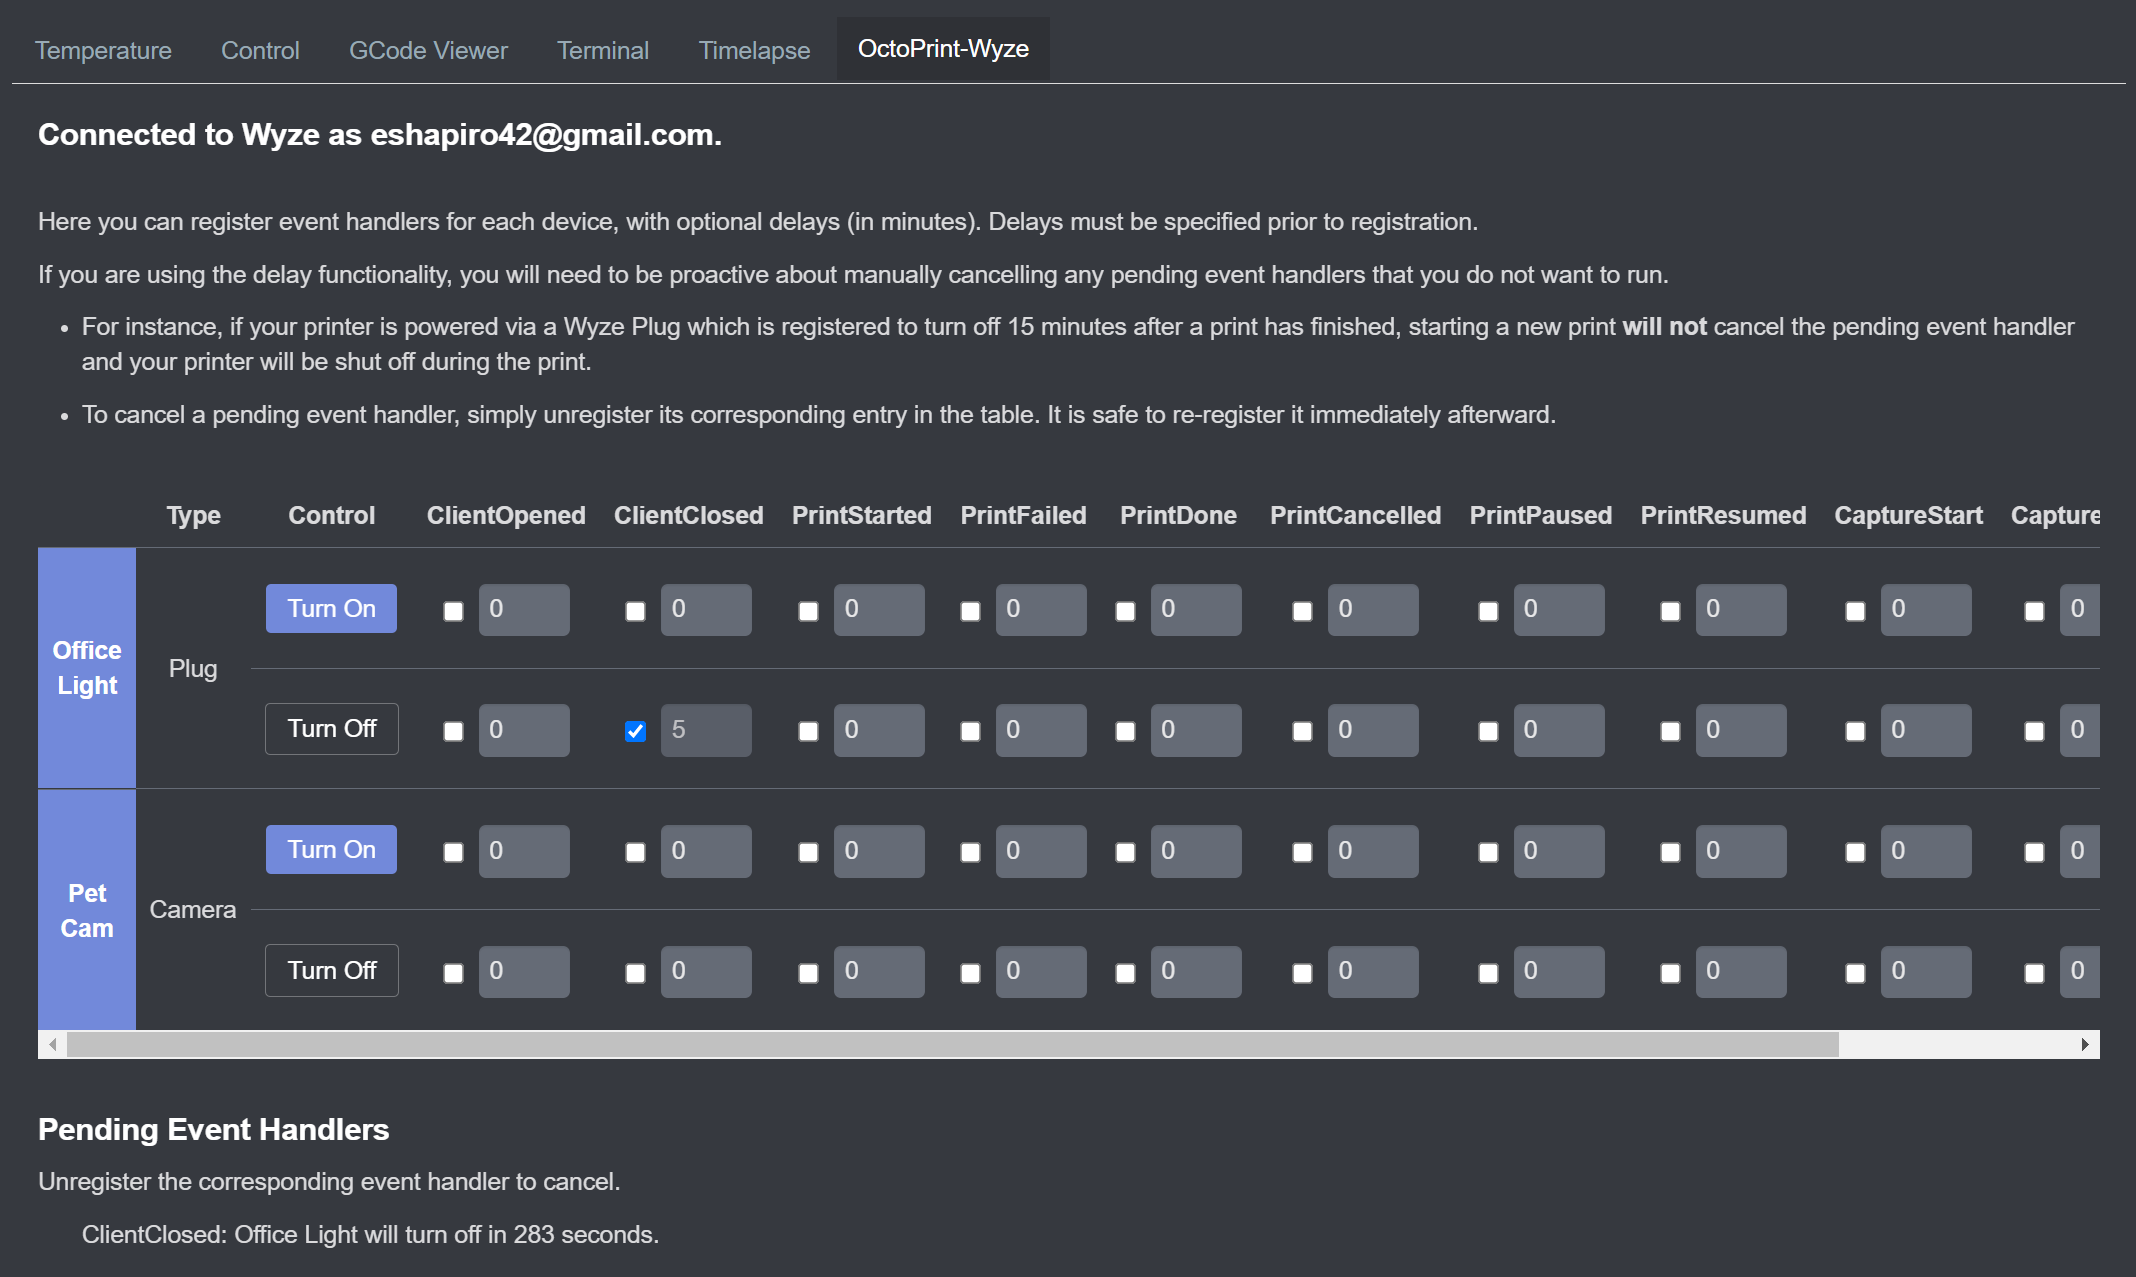
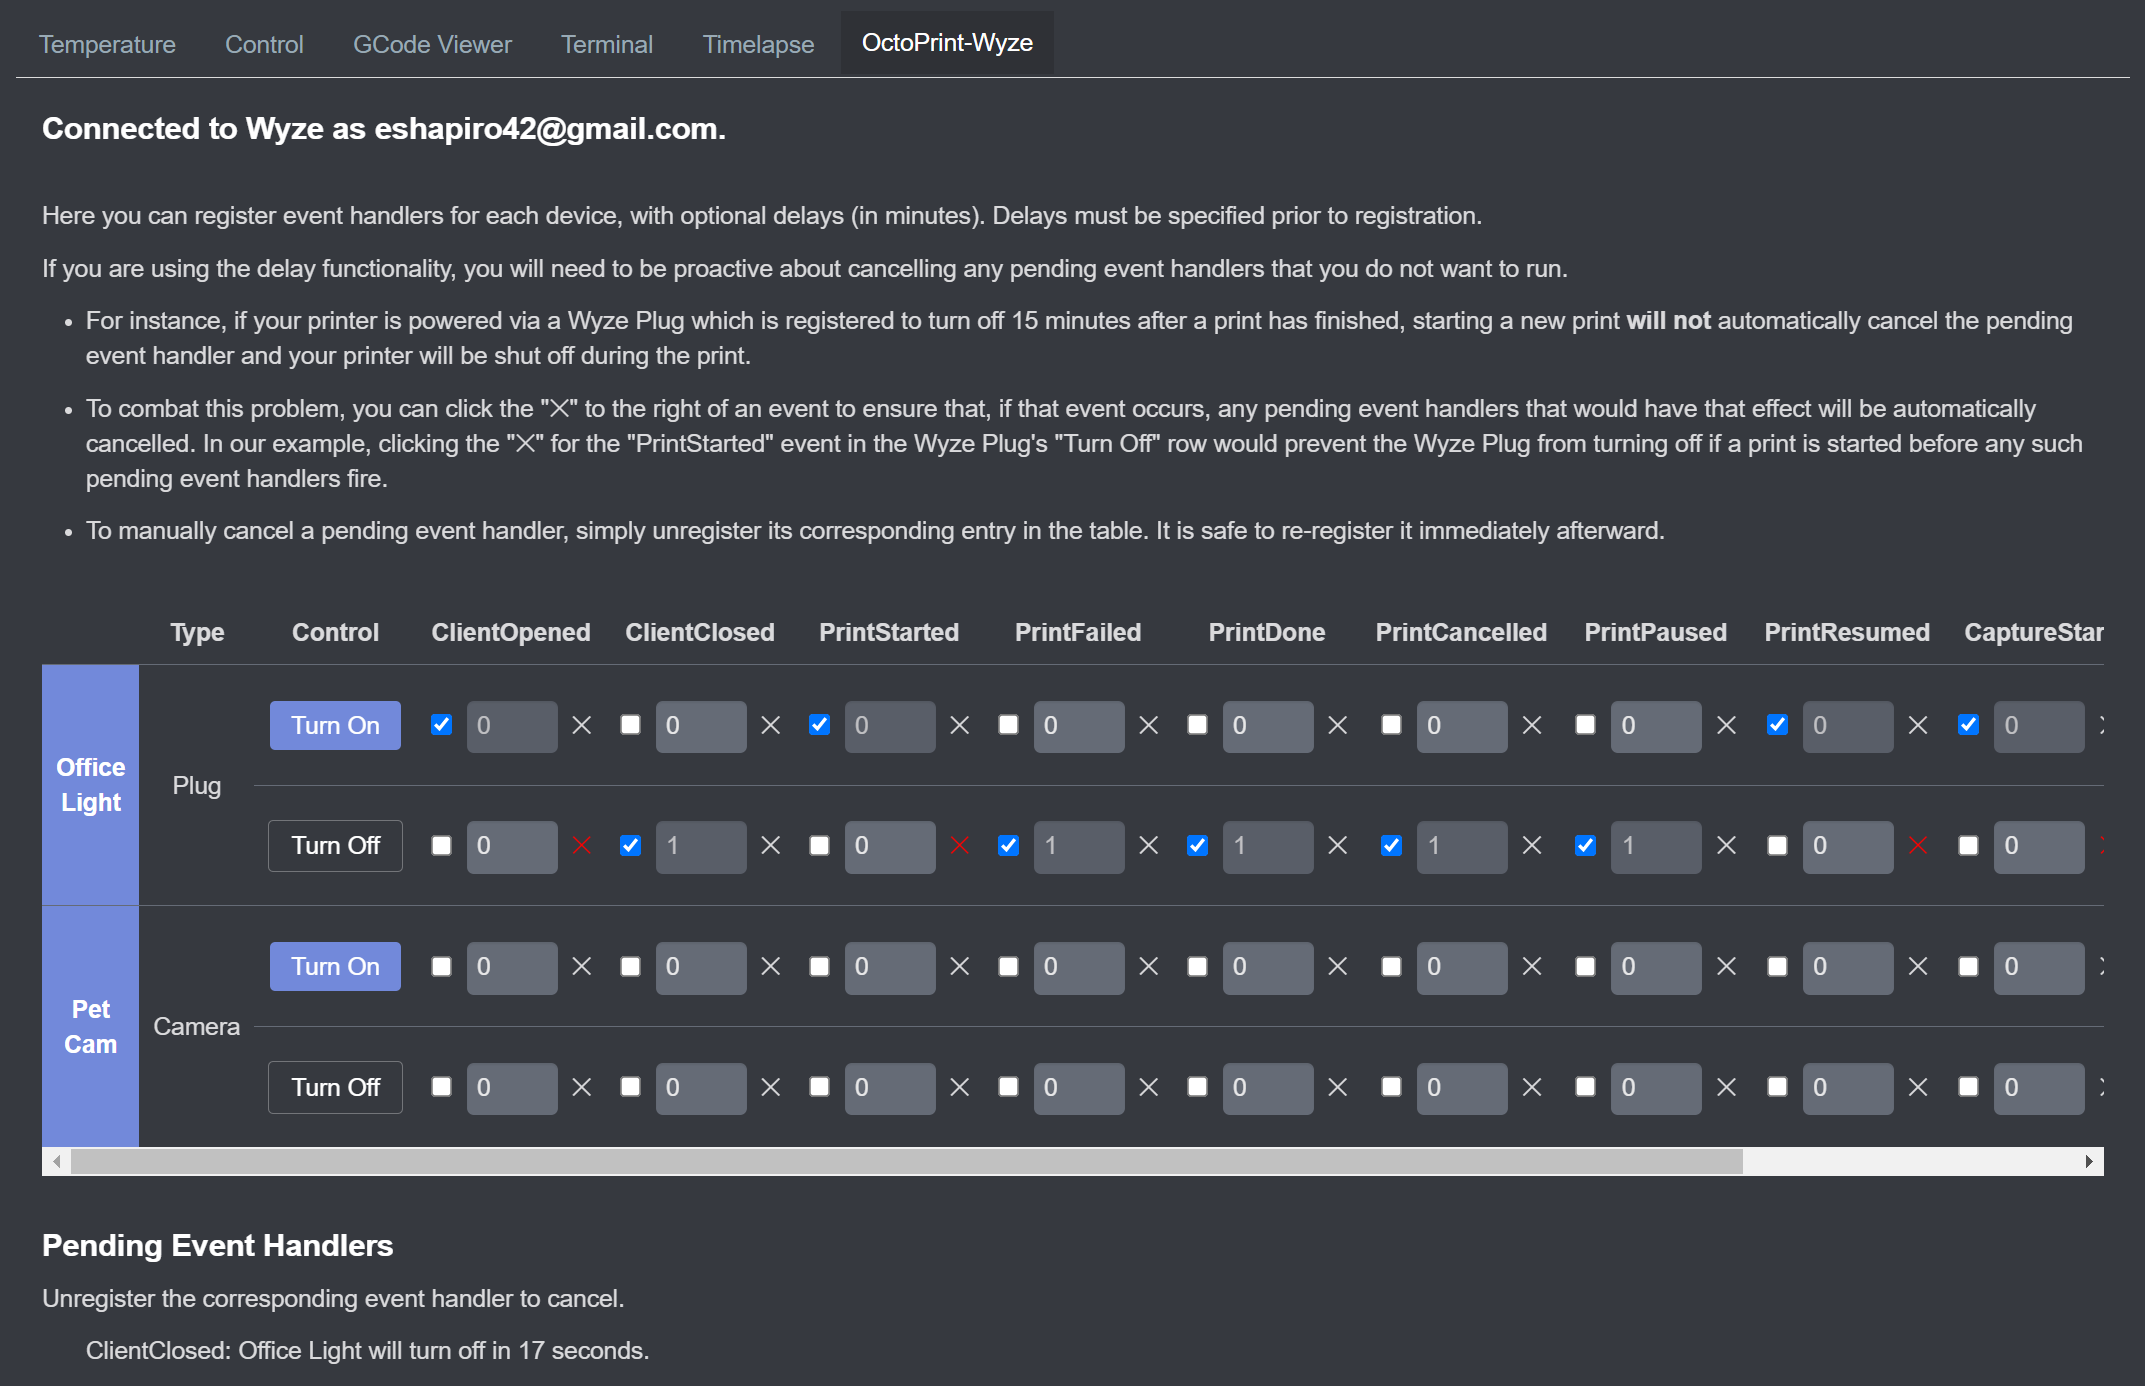
Add automatic cancellation registry
Relates to #7

Changed region(s): [[0.0, 0.1527, 0.9888, 1.0], [0.0, 0.0, 0.4944, 0.1222]]

diff --git a/octoprint_wyze/static/js/wyze.js b/octoprint_wyze/static/js/wyze.js
@@ -87,6 +87,60 @@ $(function() {
                 )
             }
 
+            this_device.addCancel = function(event_index, action_name) {
+                event_name = self.events[event_index];
+                OctoPrint.simpleApiCommand(
+                    "wyze",
+                    "add_cancel",
+                    {
+                        "device_mac": this_device.mac,
+                        "event_name": event_name,
+                        "action_name": action_name,
+                    }
+                )
+            }
+
+            this_device.removeCancel = function(event_index, action_name) {
+                event_name = self.events[event_index];
+                OctoPrint.simpleApiCommand(
+                    "wyze",
+                    "remove_cancel",
+                    {
+                        "device_mac": this_device.mac,
+                        "event_name": event_name,
+                        "action_name": action_name,
+                    }
+                )
+            }
+
+            this_device.turnOnCancelClicked = function(data, js_event) {
+                var context = ko.contextFor(js_event.target);
+                var event_index = context.$index();
+                this_device.turn_on_registrations[event_index].cancel(!this_device.turn_on_registrations[event_index].cancel());
+                var checked = this_device.turn_on_registrations[event_index].cancel();
+                if (checked) {
+                    this_device.addCancel(event_index, "TurnOn");
+                }
+                else {
+                    this_device.removeCancel(event_index, "TurnOn");
+                }
+                return true;
+            }
+            
+            this_device.turnOffCancelClicked = function(data, js_event) {
+                var context = ko.contextFor(js_event.target);
+                var event_index = context.$index();
+                this_device.turn_off_registrations[event_index].cancel(!this_device.turn_off_registrations[event_index].cancel());
+                var checked = this_device.turn_off_registrations[event_index].cancel();
+                if (checked) {
+                    this_device.addCancel(event_index, "TurnOff");
+                }
+                else {
+                    this_device.removeCancel(event_index, "TurnOff");
+                }
+                return true;
+            }
+
             this_device.turnOnCheckBoxClicked = function(data, js_event) {
                 var context = ko.contextFor(js_event.target);
                 var event_index = context.$index();
@@ -117,16 +171,20 @@ $(function() {
 
             this_device.turn_on_registrations = $.map(data.turn_on_registrations, function(item, event_index) {
                 var registration = {
-                    registered: ko.observable(item[0]),
-                    delay: ko.observable(item[1]),
+                    eventIndex: event_index,
+                    registered: ko.observable(item.registered),
+                    delay: ko.observable(item.delay),
+                    cancel: ko.observable(item.cancel),
                 };
                 return registration;
             });
 
             this_device.turn_off_registrations = $.map(data.turn_off_registrations, function(item, event_index) {
                 var registration = {
-                    registered: ko.observable(item[0]),
-                    delay: ko.observable(item[1]),
+                    eventIndex: event_index,
+                    registered: ko.observable(item.registered),
+                    delay: ko.observable(item.delay),
+                    cancel: ko.observable(item.cancel),
                 };
                 return registration;
             });

diff --git a/octoprint_wyze/static/css/wyze.css b/octoprint_wyze/static/css/wyze.css
@@ -17,10 +17,10 @@
     padding-left: 0px;
     overflow-x: auto;
     display: flex;
-    justify-content: space-around;
+    justify-content: space-between;
     list-style-type: none;
-    align-items: center;
-    justify-content: center;
+    align-items: baseline;
+    gap: 10px;
 }
 
 .wyze-list li:not(:first-child) {
@@ -138,4 +138,21 @@
 
 .themeify.nighttime th {
     border: 0;
+}
+
+.wyze-x{
+    display: inline-block;
+    cursor: pointer; 
+}
+
+.wyze-x[checked] {
+    color: red;
+}
+
+.wyze-x[unchecked] {
+    color: white;
+}
+
+input[type=checkbox] {
+    margin-bottom: 4px;
 }

diff --git a/octoprint_wyze/events.py b/octoprint_wyze/events.py
@@ -1,4 +1,5 @@
 from __future__ import annotations
+from collections import defaultdict
 
 import os
 import sqlite3
@@ -134,7 +135,7 @@ class Action(Thread):
 class EventHandler:
     def __init__(self, data_folder: str):
         self.db_path = os.path.join(data_folder, "wyze-event-handler-v2.db")
-        self.create_table()
+        self.create_tables()
 
     
     @contextmanager
@@ -146,7 +147,7 @@ class EventHandler:
         conn.close()
 
 
-    def create_table(self):
+    def create_tables(self):
         with self.db_conn() as cur:
             cur.execute(
                 """
@@ -166,6 +167,30 @@ class EventHandler:
                         mac_event_action
                     ON
                         registrations
+                    (
+                        device_mac,
+                        event_name,
+                        action_name
+                    )
+                """
+            )
+            cur.execute(
+                """
+                    CREATE TABLE IF NOT EXISTS
+                        cancellations
+                        (
+                            device_mac text,
+                            event_name text,
+                            action_name text
+                        )
+                """
+            )
+            cur.execute(
+                """
+                    CREATE UNIQUE INDEX IF NOT EXISTS
+                        mac_event_action
+                    ON
+                        cancellations
                     (
                         device_mac,
                         event_name,
@@ -208,6 +233,39 @@ class EventHandler:
             )
 
 
+    def add_cancel(self, device_mac: str, event: EventType, action: ActionType):
+        with self.db_conn() as cur:
+            try:
+                cur.execute(
+                    """
+                        INSERT INTO
+                            cancellations
+                        VALUES
+                            (?, ?, ?)
+                    """,
+                    (device_mac, EventType.get_name(event), ActionType.get_name(action))
+                )
+            except sqlite3.IntegrityError:
+                pass
+
+
+    def remove_cancel(self, device_mac: str, event: EventType, action: ActionType):
+        with self.db_conn() as cur:
+            cur.execute(
+                """
+                    DELETE FROM
+                        cancellations
+                    WHERE
+                        device_mac = ?
+                        AND
+                        event_name = ?
+                        AND 
+                        action_name = ?
+                """,
+                (device_mac, EventType.get_name(event), ActionType.get_name(action))
+            )
+
+
     def get_action(self, plugin, device: WyzeDevice, event_name: str) -> Optional[ActionType]:
         with self.db_conn() as cur:
             cur.execute(
@@ -230,10 +288,48 @@ class EventHandler:
                 return Action(plugin, action_type, event_type, device, delay)
             return None
 
+        
+    def process_cancellations(self, plugin, device: WyzeDevice, event_name: str):
+        with self.db_conn() as cur:
+            for _, event_name, action_name in cur.execute(
+                """
+                    SELECT * FROM
+                        cancellations
+                    WHERE
+                        device_mac = ?
+                        AND
+                        event_name = ?
+                """,
+                (device.mac, event_name)
+            ):
+                action_type = ActionType.get_by_name(action_name)
+                matched_actions = []
+                for action in plugin.pending_actions:
+                    if action.device.mac == device.mac and action.action_type == action_type:
+                        matched_actions.append(action)
+                for action in matched_actions:
+                    plugin._logger.info(f"Event {event_name} fired. Cancelling pending action {action}...")
+                    action.cancel()
+            
     
     def get_registrations(self, device_mac: str) -> Tuple[List]:
-        turn_on_registrations = [(False, 0)] * len(EventType)
-        turn_off_registrations = [(False, 0)] * len(EventType)
+        turn_on_registrations = []
+        turn_off_registrations = []
+        for _ in EventType:
+            turn_on_registrations.append(
+                {
+                    "registered": False,
+                    "delay": 0,
+                    "cancel": False
+                }
+            )
+            turn_off_registrations.append(
+                {
+                    "registered": False,
+                    "delay": 0,
+                    "cancel": False
+                }
+            )
         with self.db_conn() as cur:
             for _, event_name, action_name, delay in cur.execute(
                 """
@@ -244,10 +340,27 @@ class EventHandler:
                 """,
                 (device_mac, )
             ):
-                event = EventType.get_by_name(event_name)
-                action = ActionType.get_by_name(action_name)
-                if action == ActionType.TURN_ON:
-                    turn_on_registrations[event] = (True, delay)
-                elif action == ActionType.TURN_OFF:
-                    turn_off_registrations[event] = (True, delay)
+                event_type = EventType.get_by_name(event_name)
+                action_type = ActionType.get_by_name(action_name)
+                if action_type == ActionType.TURN_ON:
+                    turn_on_registrations[event_type]["registered"] = True
+                    turn_on_registrations[event_type]["delay"] = delay
+                elif action_type == ActionType.TURN_OFF:
+                    turn_off_registrations[event_type]["registered"] = True
+                    turn_off_registrations[event_type]["delay"] = delay
+            for _, event_name, action_name in cur.execute(
+                """
+                    SELECT * FROM
+                        cancellations
+                    WHERE
+                        device_mac = ?
+                """,
+                (device_mac, )
+            ):
+                event_type = EventType.get_by_name(event_name)
+                action_type = ActionType.get_by_name(action_name)
+                if action_type == ActionType.TURN_ON:
+                    turn_on_registrations[event_type]["cancel"] = True
+                elif action_type == ActionType.TURN_OFF:
+                    turn_off_registrations[event_type]["cancel"] = True
         return turn_on_registrations, turn_off_registrations

diff --git a/octoprint_wyze/__init__.py b/octoprint_wyze/__init__.py
@@ -110,6 +110,8 @@ class WyzePlugin(
             turn_off=["device_mac"],
             register=["device_mac", "event_name", "action_name"],
             unregister=["device_mac", "event_name", "action_name"],
+            add_cancel=["device_mac", "event_name", "action_name"],
+            remove_cancel=["device_mac", "event_name", "action_name"],
         )
 
 
@@ -163,6 +165,22 @@ class WyzePlugin(
             for action in matched_actions:
                 self._logger.info(f"Cancelling pending action {action}...")
                 action.cancel()
+        elif command == "add_cancel":
+            device_mac = data["device_mac"]
+            event_name = data["event_name"]
+            event_type = EventType.get_by_name(event_name)
+            action_name = data["action_name"]
+            action_type = ActionType.get_by_name(action_name)
+            self._logger.info(f"Adding cancellation device_mac={device_mac} event={event_type} action={action_type}.")
+            self.event_handler.add_cancel(device_mac, event_type, action_type)
+        elif command == "remove_cancel":
+            device_mac = data["device_mac"]
+            event_name = data["event_name"]
+            event_type = EventType.get_by_name(event_name)
+            action_name = data["action_name"]
+            action_type = ActionType.get_by_name(action_name)
+            self._logger.info(f"Removing cancellation device_mac={device_mac} event={event_type} action={action_type}.")
+            self.event_handler.remove_cancel(device_mac, event_type, action_type)
 
     
     def on_event(self, event_name, payload):
@@ -170,6 +188,9 @@ class WyzePlugin(
             return
         for device_mac in self.wyze.devices:
             device = self.wyze.get_device_by_mac(device_mac)
+            # Cancel any pending actions that are supposed to be cancelled on this event
+            self.event_handler.process_cancellations(self, device, event_name)
+            # Add event handlers for any registerations that match this event
             if (action := self.event_handler.get_action(self, device, event_name)) is None:
                 continue
             if any(action.device == device for action in self.pending_actions):

diff --git a/setup.py b/setup.py
@@ -14,7 +14,7 @@ plugin_package = "octoprint_wyze"
 plugin_name = "OctoPrint-Wyze"
 
 # The plugin's version. Can be overwritten within OctoPrint's internal data via __plugin_version__ in the plugin module
-plugin_version = "0.2.0"
+plugin_version = "0.2.1"
 
 # The plugin's description. Can be overwritten within OctoPrint's internal data via __plugin_description__ in the plugin
 # module
